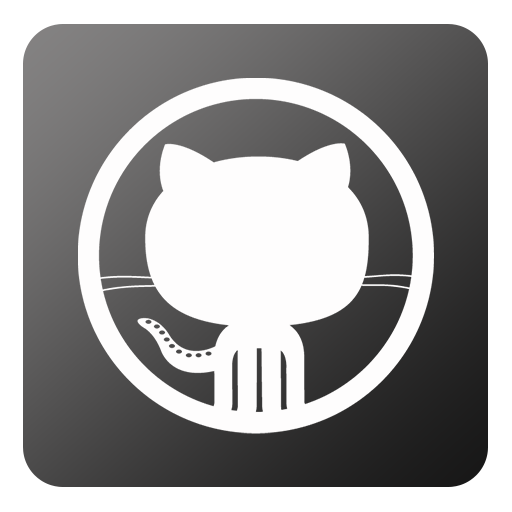
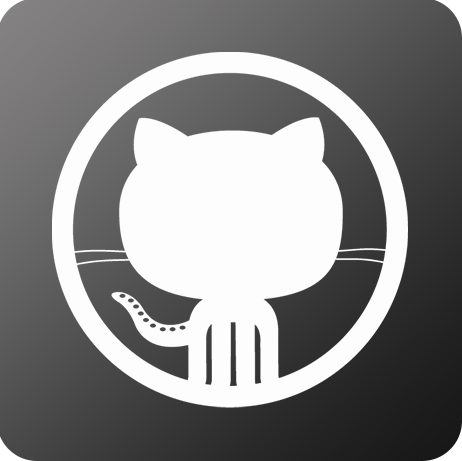
started contact and portfolio pages

diff --git a/index.html b/index.html
@@ -7,45 +7,45 @@
 	<link rel="stylesheet" type="text/css" href="assets/css/style.css">
 </head>
 
-<body>
-	<header>
+<body style="background-color:#dddddd;">
+	<header class="headerall">
 		<section class="headername">
 			<h1>Jim Joseph</h1>
 		</section>
 
 		<nav class="headerlinks">
-			<a href="#">About &nbsp;&nbsp;&nbsp;&nbsp;&nbsp;&nbsp;&nbsp;</a>
-			<a href="#">Portfolio &nbsp;&nbsp;&nbsp;</a>
-			<a href="#">Contact </a>
+			<a href="index.html">About &nbsp;&nbsp;&nbsp;&nbsp;&nbsp;&nbsp;&nbsp;</a>
+			<a href="portfolio.html">Portfolio &nbsp;&nbsp;&nbsp;</a>
+			<a href="contact.html">Contact </a>
 		</nav>
 	</header>
 
-	<body>
+	<div>
 		<section class="aboutme">
 			<h2>About Me</h2>
 			<hr>
 			<br>
 			<img id="picme" src="assets/images/jimmy.jpg">
 			<br>
-			<p>Lorem ipsum dolor sit amet, consectetur adipiscing elit. Curabitur non vulputate massa. Proin fringilla nulla non pellentesque tristique. Morbi molestie, urna nec cursus mollis, nisl enim scelerisque mi, ut vulputate nisi felis non dolor. Sed at augue sagittis, luctus ipsum ac, bibendum justo. Phasellus in magna lacinia, placerat nunc eu, porttitor est. Nulla eu justo cursus lectus consequat ornare vitae at enim. </p> 
+			<p class="bodytxt">Lorem ipsum dolor sit amet, consectetur adipiscing elit. Curabitur non vulputate massa. Proin fringilla nulla non pellentesque tristique. Morbi molestie, urna nec cursus mollis, nisl enim scelerisque mi, ut vulputate nisi felis non dolor. Sed at augue sagittis, luctus ipsum ac, bibendum justo. Phasellus in magna lacinia, placerat nunc eu, porttitor est. Nulla eu justo cursus lectus consequat ornare vitae at enim. </p> 
 			<br>
-			<p> Ut eget felis lacinia tellus tincidunt blandit et ac ante. Nullam quis erat vehicula, rhoncus neque ut, cursus est. Cras sed libero scelerisque, dignissim nibh non, tincidunt tellus. In vehicula est eget elit accumsan venenatis. Morbi a dapibus nisi. Nam et ex vitae est tincidunt luctus id eget sapien. Maecenas vel vulputate eros. Nulla vestibulum interdum mauris, in malesuada nisi rutrum ut. Sed ut urna at sapien pharetra fringilla euismod in magna.</p>
+			<p class="bodytxt"> Ut eget felis lacinia tellus tincidunt blandit et ac ante. Nullam quis erat vehicula, rhoncus neque ut, cursus est. Cras sed libero scelerisque, dignissim nibh non, tincidunt tellus. In vehicula est eget elit accumsan venenatis. Morbi a dapibus nisi. Nam et ex vitae est tincidunt luctus id eget sapien. Maecenas vel vulputate eros. Nulla vestibulum interdum mauris, in malesuada nisi rutrum ut. Sed ut urna at sapien pharetra fringilla euismod in magna.</p>
 		</section>
-	</body>
+	</div>
 
 	<aside>
 		<section class="sidelinks">
 			<h3>Connect with Me</h3>
 			<hr>
-			<a href="#"><img src="assets/images/Github-icon.png" width="83" height="83"></a>
-			<a href="#"><img src="assets/images/linkedin.png" width="75" height="75">&nbsp;</a>
+			<a href="#"><img src="assets/images/Github-icon.png" width="75" height="75"></a>
+			<a href="#"><img src="assets/images/linkedin.png" width="75" height="75"></a>
 			<a href="#"><img src="assets/images/stackoverflow.png" width="75" height="75"></a>
 		</section>
 	</aside>
 
-	<footer>
+	<footer style="background-color: #666666;">
 		<section class="footercopyright">
-			<h6>&#169; Copyright 2016 Jim Joseph</h6>
+			<h6>&#169; Copyright 2016 Jim Joseph</h6><br>
 		</section>
 
 	</footer>

diff --git a/assets/css/style.css b/assets/css/style.css
@@ -28,6 +28,10 @@ p {
 	
 }
 
+header {
+	background-color: #ffffff;
+}
+
 .headername {
 	float: left;
 	position: absolute;
@@ -50,6 +54,31 @@ p {
 	font-family: 'Arial', 'Helvetica Neue', Helvetica, sans-serif;
 }
 
+.portfolio {
+	position: relative;
+	float: left;
+	width: 750px;
+	margin-top: 300px;
+	font-family: 'Arial', 'Helvetica Neue', Helvetica, sans-serif;
+	margin-left: 140px;
+	background-color: #ffffff;
+	padding: 20px;	
+}
+
+.portfolio2 {
+	float: left;
+	position: relative;
+	background-color:#4aaaa5;
+	width: 160px;
+	padding-top: 30px;
+	padding-right: 20px;
+	padding-bottom: 30px;
+	padding-left: 40px;
+	margin:20px;
+	font-family: 'Arial', 'Helvetica Neue', Helvetica, sans-serif;
+
+}
+
 .aboutme {
 	position: relative;
 	float: left;
@@ -57,7 +86,28 @@ p {
 	margin-top: 300px;
 	font-family: 'Arial', 'Helvetica Neue', Helvetica, sans-serif;
 	margin-left: 140px;
+	background-color: #ffffff;
+	padding: 20px;
 
+}
+
+.bodytxt {
+	line-height: 200%;
+}
+
+.contactme {
+	position: relative;
+	float: left;
+	width: 750px;
+	margin-top: 300px;
+	font-family: 'Arial', 'Helvetica Neue', Helvetica, sans-serif;
+	margin-left: 140px;
+	background-color: #ffffff;
+	padding: 20px;
+}
+
+.headerall {
+	background-color: #ffffff;
 }
 
 .sidelinks {
@@ -65,15 +115,27 @@ p {
 	font-family: 'Arial', 'Helvetica Neue', Helvetica, sans-serif;
 	margin-top: 300px;
 	margin-left: 1000px;
+	background-color: #ffffff;
+	padding: 20px;
 }
 
 .footercopyright {
 	font-family: 'Arial', 'Helvetica Neue', Helvetica, sans-serif;
-	margin-top: 1000px;
+	background-color: #666666;
+	margin-top: 1200px;
+	height: 70px;
+	padding-top: 30px;
+	width: 1300px;
 	position: absolute;
-
+	text-align: center;
+	color: white;
 }
 
 #picme {
 	float: left;
+	padding-right: 20px;
+}
+
+#wrapper {
+	background-color: blue;
 }

diff --git a/contact.html b/contact.html
@@ -1,0 +1,55 @@
+<!DOCTYPE html>
+<html>
+	<head>
+		<title>Contact</title>
+		<link rel="stylesheet" type="text/css" href="assets/css/reset.css">
+		<link rel="stylesheet" type="text/css" href="assets/css/style.css">
+	</head>
+
+	<body style="background-color:#dddddd;">
+		<header class="headerall">
+			<section class="headername">
+				<h1>Jim Joseph</h1>
+			</section>
+
+			<nav class="headerlinks">
+				<a href="index.html">About &nbsp;&nbsp;&nbsp;&nbsp;&nbsp;&nbsp;&nbsp;</a>
+				<a href="portfolio.html">Portfolio &nbsp;&nbsp;&nbsp;</a>
+				<a href="contact.html">Contact </a>
+			</nav>
+		</header>
+
+		<div>
+			<section class="contactme">
+				<h2>Contact</h2>
+				<hr>
+				<br>
+				<form action="mailto:jimmyj.inbox@gmail.com?Subject=Contact%20Message">
+					Name:<br>
+					<input type="text" name="Name"> <br><br><br>
+					Email:<br>
+					<input type="text" name="Email"> <br><br><br>
+					Message:<br>
+					<input type="text" name="Message"> <br><br><br>
+					<input type="submit" name="Submit"> <br>
+				</form>
+		</div>
+
+		<aside>
+			<section class="sidelinks">
+				<h3>Connect with Me</h3>
+				<hr>
+				<a href="#"><img src="assets/images/Github-icon.png" width="75" height="75"></a>
+				<a href="#"><img src="assets/images/linkedin.png" width="75" height="75"></a>
+				<a href="#"><img src="assets/images/stackoverflow.png" width="75" height="75"></a>
+			</section>
+		</aside>
+
+		<footer style="background-color: #666666;">
+			<section class="footercopyright">
+				<h6>&#169; Copyright 2016 Jim Joseph</h6><br>
+			</section>
+
+		</footer>
+	</body>
+</html>

diff --git a/portfolio.html b/portfolio.html
@@ -1,0 +1,51 @@
+<!DOCTYPE html>
+<html>
+	<head>
+		<title>Contact</title>
+		<link rel="stylesheet" type="text/css" href="assets/css/reset.css">
+		<link rel="stylesheet" type="text/css" href="assets/css/style.css">
+	</head>
+
+	<body style="background-color:#dddddd;">
+		<header class="headerall">
+			<section class="headername">
+				<h1>Jim Joseph</h1>
+			</section>
+
+			<nav class="headerlinks">
+				<a href="index.html">About &nbsp;&nbsp;&nbsp;&nbsp;&nbsp;&nbsp;&nbsp;</a>
+				<a href="portfolio.html">Portfolio &nbsp;&nbsp;&nbsp;</a>
+				<a href="contact.html">Contact </a>
+			</nav>
+		</header>
+
+		<div>
+			<section class="portfolio">
+				<h2>Portfolio</h2>
+				<hr>
+				<br>
+				<h1 class="portfolio2">Hangman</h1>
+				<h1 class="portfolio2">RPG Game</h1> <br>
+				<h1 class="portfolio2">Trivia Game</h1>
+				<h1 class="portfolio2">Rutgers Info Widget</h1> <br>
+				<h1 class="portfolio2">Rock Paper Scissors</h1>
+		</div>
+
+		<aside>
+			<section class="sidelinks">
+				<h3>Connect with Me</h3>
+				<hr>
+				<a href="#"><img src="assets/images/Github-icon.png" width="75" height="75"></a>
+				<a href="#"><img src="assets/images/linkedin.png" width="75" height="75"></a>
+				<a href="#"><img src="assets/images/stackoverflow.png" width="75" height="75"></a>
+			</section>
+		</aside>
+
+		<footer style="background-color: #666666;">
+			<section class="footercopyright">
+				<h6>&#169; Copyright 2016 Jim Joseph</h6><br>
+			</section>
+
+		</footer>
+	</body>
+</html>
